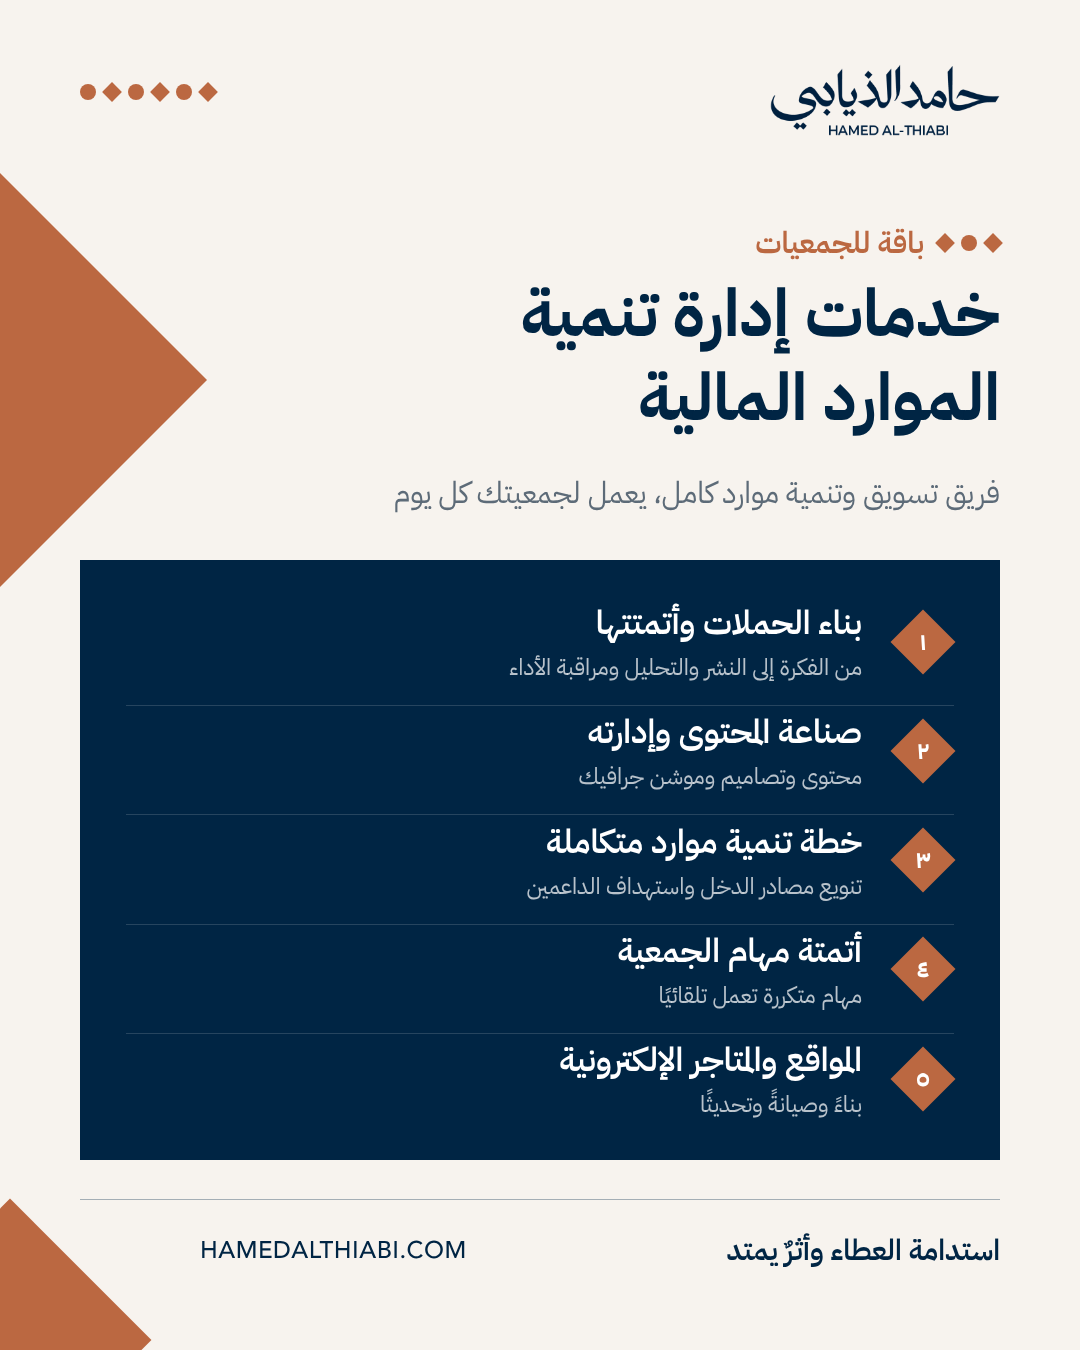
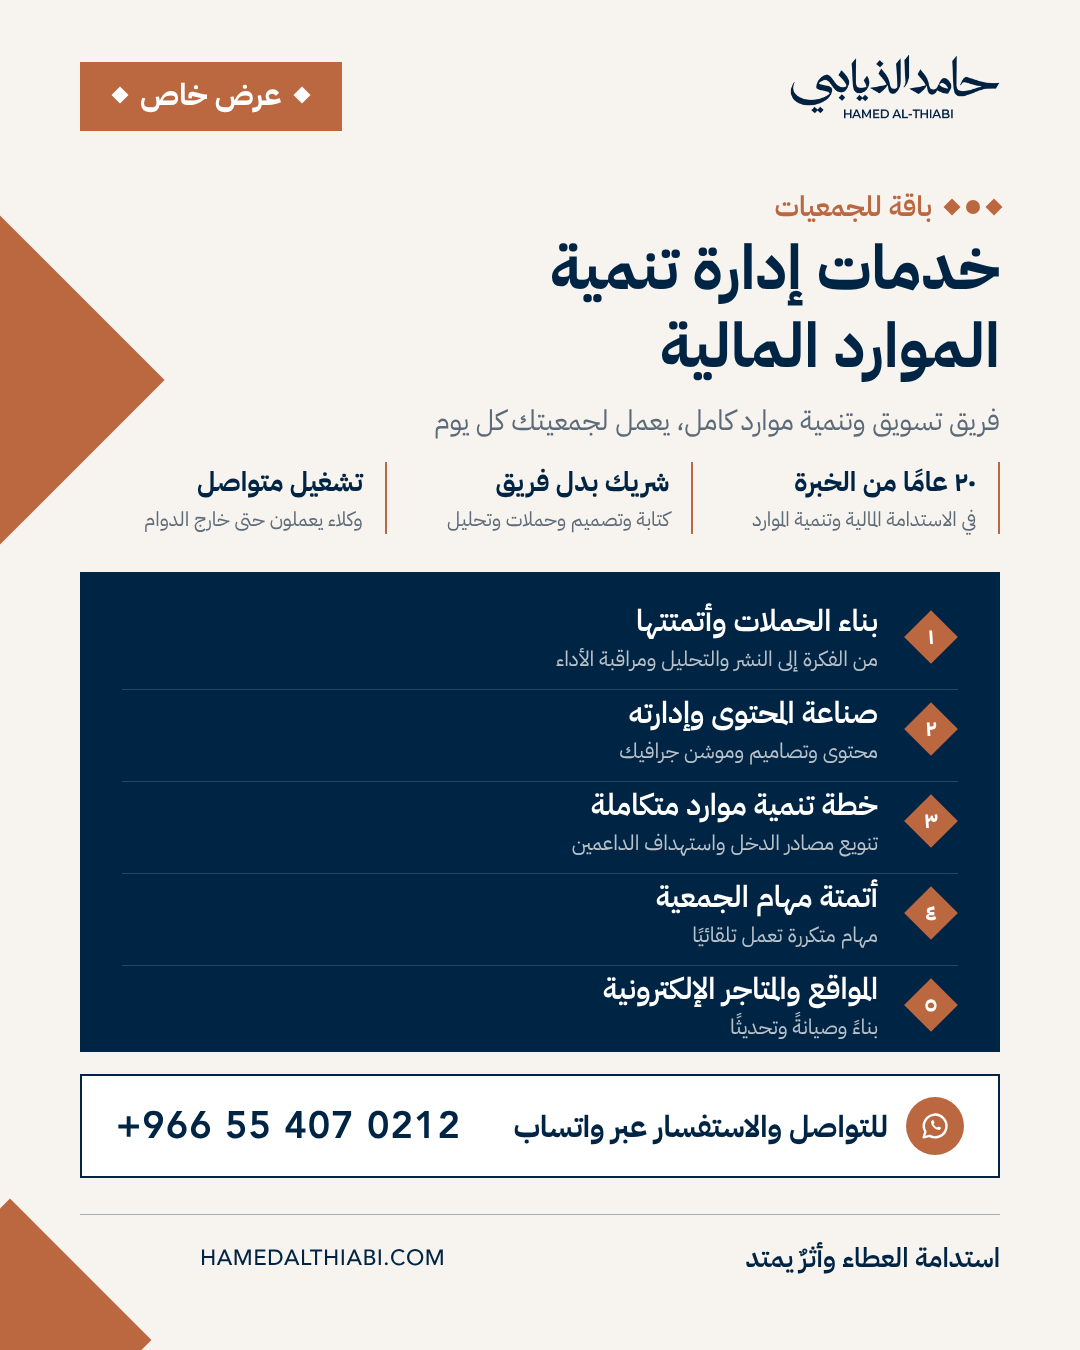
واتساب 2026-11-28: عرض خاص ورقم التواصل
Claude-Session: https://claude.ai/code/session_01WaAQ5SeTcZLkPCmyPYr9BX

diff --git a/agent/designs/2026-11-28-package.html b/agent/designs/2026-11-28-package.html
@@ -3,44 +3,65 @@
 @font-face{font-family:Ar;src:url(../brand/identity-kit/IBMPlexArabic-SemiBold.ttf);font-weight:600}
 @font-face{font-family:Ar;src:url(../brand/identity-kit/IBMPlexArabic-Regular.ttf);font-weight:400}
 @font-face{font-family:Av;src:url(../brand/identity-kit/avenir-500.ttf)}
+@font-face{font-family:Av8;src:url(../brand/identity-kit/avenir-800.ttf)}
 :root{--n:#002544;--c:#BB6841;--cr:#F7F3EE;--mut:#5d6b78}
 *{margin:0;box-sizing:border-box}html,body{width:1080px;height:1350px;overflow:hidden}
 body{font-family:Ar;background:var(--cr);position:relative;color:var(--n)}
-.logo{position:absolute;top:64px;right:80px;width:230px}
-.dz{position:absolute;top:84px;left:80px;display:flex;gap:9px;align-items:center}
-.dz i{display:block;width:16px;height:16px;background:var(--c);border-radius:50%}
-.dz i.d{border-radius:0;transform:rotate(45deg);width:14px;height:14px}
-.big{position:absolute;width:420px;height:420px;background:var(--c);transform:rotate(45deg);left:-300px;top:170px}
-.kick{position:absolute;top:220px;right:80px;font-size:30px;font-weight:600;color:var(--c);display:flex;align-items:center;gap:14px}
-.kick .dz{position:static}
-.title{position:absolute;top:272px;right:80px;left:120px;font-weight:700;font-size:66px;line-height:1.28}
-.sub{position:absolute;top:470px;right:80px;left:120px;font-size:30px;color:var(--mut)}
-.panel{position:absolute;top:560px;right:80px;left:80px;bottom:190px;background:var(--n);padding:38px 46px;display:flex;flex-direction:column;justify-content:space-between}
-.r{display:flex;align-items:center;gap:30px;color:#fff;padding-bottom:20px;border-bottom:1px solid #ffffff26}
+.logo{position:absolute;top:54px;right:80px;width:210px}
+.badge{position:absolute;top:62px;left:80px;background:var(--c);color:#fff;font-size:30px;font-weight:700;padding:10px 34px 14px;display:flex;align-items:center;gap:14px}
+.badge i{display:block;width:12px;height:12px;background:#fff;transform:rotate(45deg)}
+.big{position:absolute;width:360px;height:360px;background:var(--c);transform:rotate(45deg);left:-270px;top:200px}
+.dz{display:flex;gap:8px;align-items:center}
+.dz i{display:block;width:14px;height:14px;background:var(--c);border-radius:50%}
+.dz i.d{border-radius:0;transform:rotate(45deg);width:12px;height:12px}
+.kick{position:absolute;top:186px;right:80px;font-size:28px;font-weight:600;color:var(--c);display:flex;align-items:center;gap:14px}
+.title{position:absolute;top:230px;right:80px;left:120px;font-weight:700;font-size:62px;line-height:1.25}
+.sub{position:absolute;top:400px;right:80px;left:120px;font-size:28px;color:var(--mut)}
+.why{position:absolute;top:462px;right:80px;left:80px;display:flex;gap:0}
+.why div{flex:1;padding:0 22px;border-right:2px solid var(--c)}
+.why b{display:block;font-size:27px;font-weight:700}
+.why small{display:block;font-size:20px;color:var(--mut);margin-top:2px}
+.panel{position:absolute;top:572px;right:80px;left:80px;height:480px;background:var(--n);padding:26px 42px;display:flex;flex-direction:column;justify-content:space-between}
+.r{display:flex;align-items:center;gap:26px;color:#fff;padding-bottom:14px;border-bottom:1px solid #ffffff26}
 .r:last-child{border-bottom:0;padding-bottom:0}
-.r .nm{flex:none;width:62px;height:62px;position:relative;display:flex;align-items:center;justify-content:center}
+.r .nm{flex:none;width:54px;height:54px;position:relative;display:flex;align-items:center;justify-content:center}
 .r .nm::before{content:"";position:absolute;inset:8px;background:var(--c);transform:rotate(45deg)}
-.r .nm span{position:relative;font-size:24px;font-weight:700;color:#fff}
-.r b{display:block;font-size:33px;font-weight:600}
-.r small{display:block;font-size:23px;color:#ffffffb8;margin-top:2px}
-.foot{position:absolute;bottom:78px;right:80px;left:200px;display:flex;align-items:center;justify-content:space-between}
-.foot .slog{font-size:29px;font-weight:600;color:var(--n)}
-.foot .url{font-family:Av;font-size:24px;color:var(--n);letter-spacing:.5px;direction:ltr}
-.line{position:absolute;bottom:150px;right:80px;left:80px;height:1px;background:#00254455}
+.r .nm span{position:relative;font-size:22px;font-weight:700;color:#fff}
+.r b{display:block;font-size:30px;font-weight:600}
+.r small{display:block;font-size:21px;color:#ffffffb8}
+.contact{position:absolute;top:1074px;right:80px;left:80px;height:104px;border:2px solid var(--n);display:flex;align-items:center;justify-content:space-between;padding:0 34px;background:#fff}
+.contact .l{display:flex;align-items:center;gap:18px}
+.contact .ic{width:58px;height:58px;background:var(--c);display:flex;align-items:center;justify-content:center;border-radius:50%}
+.contact .ic svg{width:32px;height:32px}
+.contact b{font-size:30px;font-weight:700}
+.contact .num{font-family:Av8;font-size:38px;direction:ltr;letter-spacing:1px;color:var(--n)}
+.line{position:absolute;top:1214px;right:80px;left:80px;height:1px;background:#00254455}
+.foot{position:absolute;top:1238px;right:80px;left:200px;display:flex;align-items:center;justify-content:space-between}
+.foot .slog{font-size:27px;font-weight:600}
+.foot .url{font-family:Av;font-size:22px;letter-spacing:.5px;direction:ltr}
 .corner{position:absolute;left:-90px;bottom:-90px;width:200px;height:200px;background:var(--c);transform:rotate(45deg)}
 </style></head><body>
 <div class="big"></div>
 <img class="logo" src="../brand/logo_navy.png">
-<div class="dz"><i class="d"></i><i></i><i class="d"></i><i></i><i class="d"></i><i></i></div>
+<div class="badge"><i></i>عرض خاص<i></i></div>
 <div class="kick"><span class="dz"><i class="d"></i><i></i><i class="d"></i></span>باقة للجمعيات</div>
 <div class="title">خدمات إدارة تنمية<br>الموارد المالية</div>
 <div class="sub">فريق تسويق وتنمية موارد كامل، يعمل لجمعيتك كل يوم</div>
+<div class="why">
+ <div><b>٢٠ عامًا من الخبرة</b><small>في الاستدامة المالية وتنمية الموارد</small></div>
+ <div><b>شريك بدل فريق</b><small>كتابة وتصميم وحملات وتحليل</small></div>
+ <div><b>تشغيل متواصل</b><small>وكلاء يعملون حتى خارج الدوام</small></div>
+</div>
 <div class="panel">
  <div class="r"><div class="nm"><span>١</span></div><div><b>بناء الحملات وأتمتتها</b><small>من الفكرة إلى النشر والتحليل ومراقبة الأداء</small></div></div>
  <div class="r"><div class="nm"><span>٢</span></div><div><b>صناعة المحتوى وإدارته</b><small>محتوى وتصاميم وموشن جرافيك</small></div></div>
  <div class="r"><div class="nm"><span>٣</span></div><div><b>خطة تنمية موارد متكاملة</b><small>تنويع مصادر الدخل واستهداف الداعمين</small></div></div>
  <div class="r"><div class="nm"><span>٤</span></div><div><b>أتمتة مهام الجمعية</b><small>مهام متكررة تعمل تلقائيًا</small></div></div>
  <div class="r"><div class="nm"><span>٥</span></div><div><b>المواقع والمتاجر الإلكترونية</b><small>بناءً وصيانةً وتحديثًا</small></div></div>
+</div>
+<div class="contact">
+ <div class="l"><div class="ic"><svg viewBox="0 0 24 24" fill="none" stroke="#fff" stroke-width="1.8" stroke-linecap="round" stroke-linejoin="round"><path d="M3.5 20.5l1.3-4.2A8.5 8.5 0 1 1 8 19.4z"/><path d="M9 8.5c0 3.5 3 6.5 6.5 6.5l1.2-1.6-2.2-1.1-1 .9c-1-.5-2.2-1.6-2.7-2.7l.9-1-1.1-2.2z" fill="#fff" stroke="none"/></svg></div><b>للتواصل والاستفسار عبر واتساب</b></div>
+ <span class="num">+966 55 407 0212</span>
 </div>
 <div class="line"></div>
 <div class="foot"><span class="slog">استدامة العطاء وأثرٌ يمتد</span><span class="url">HAMEDALTHIABI.COM</span></div>
